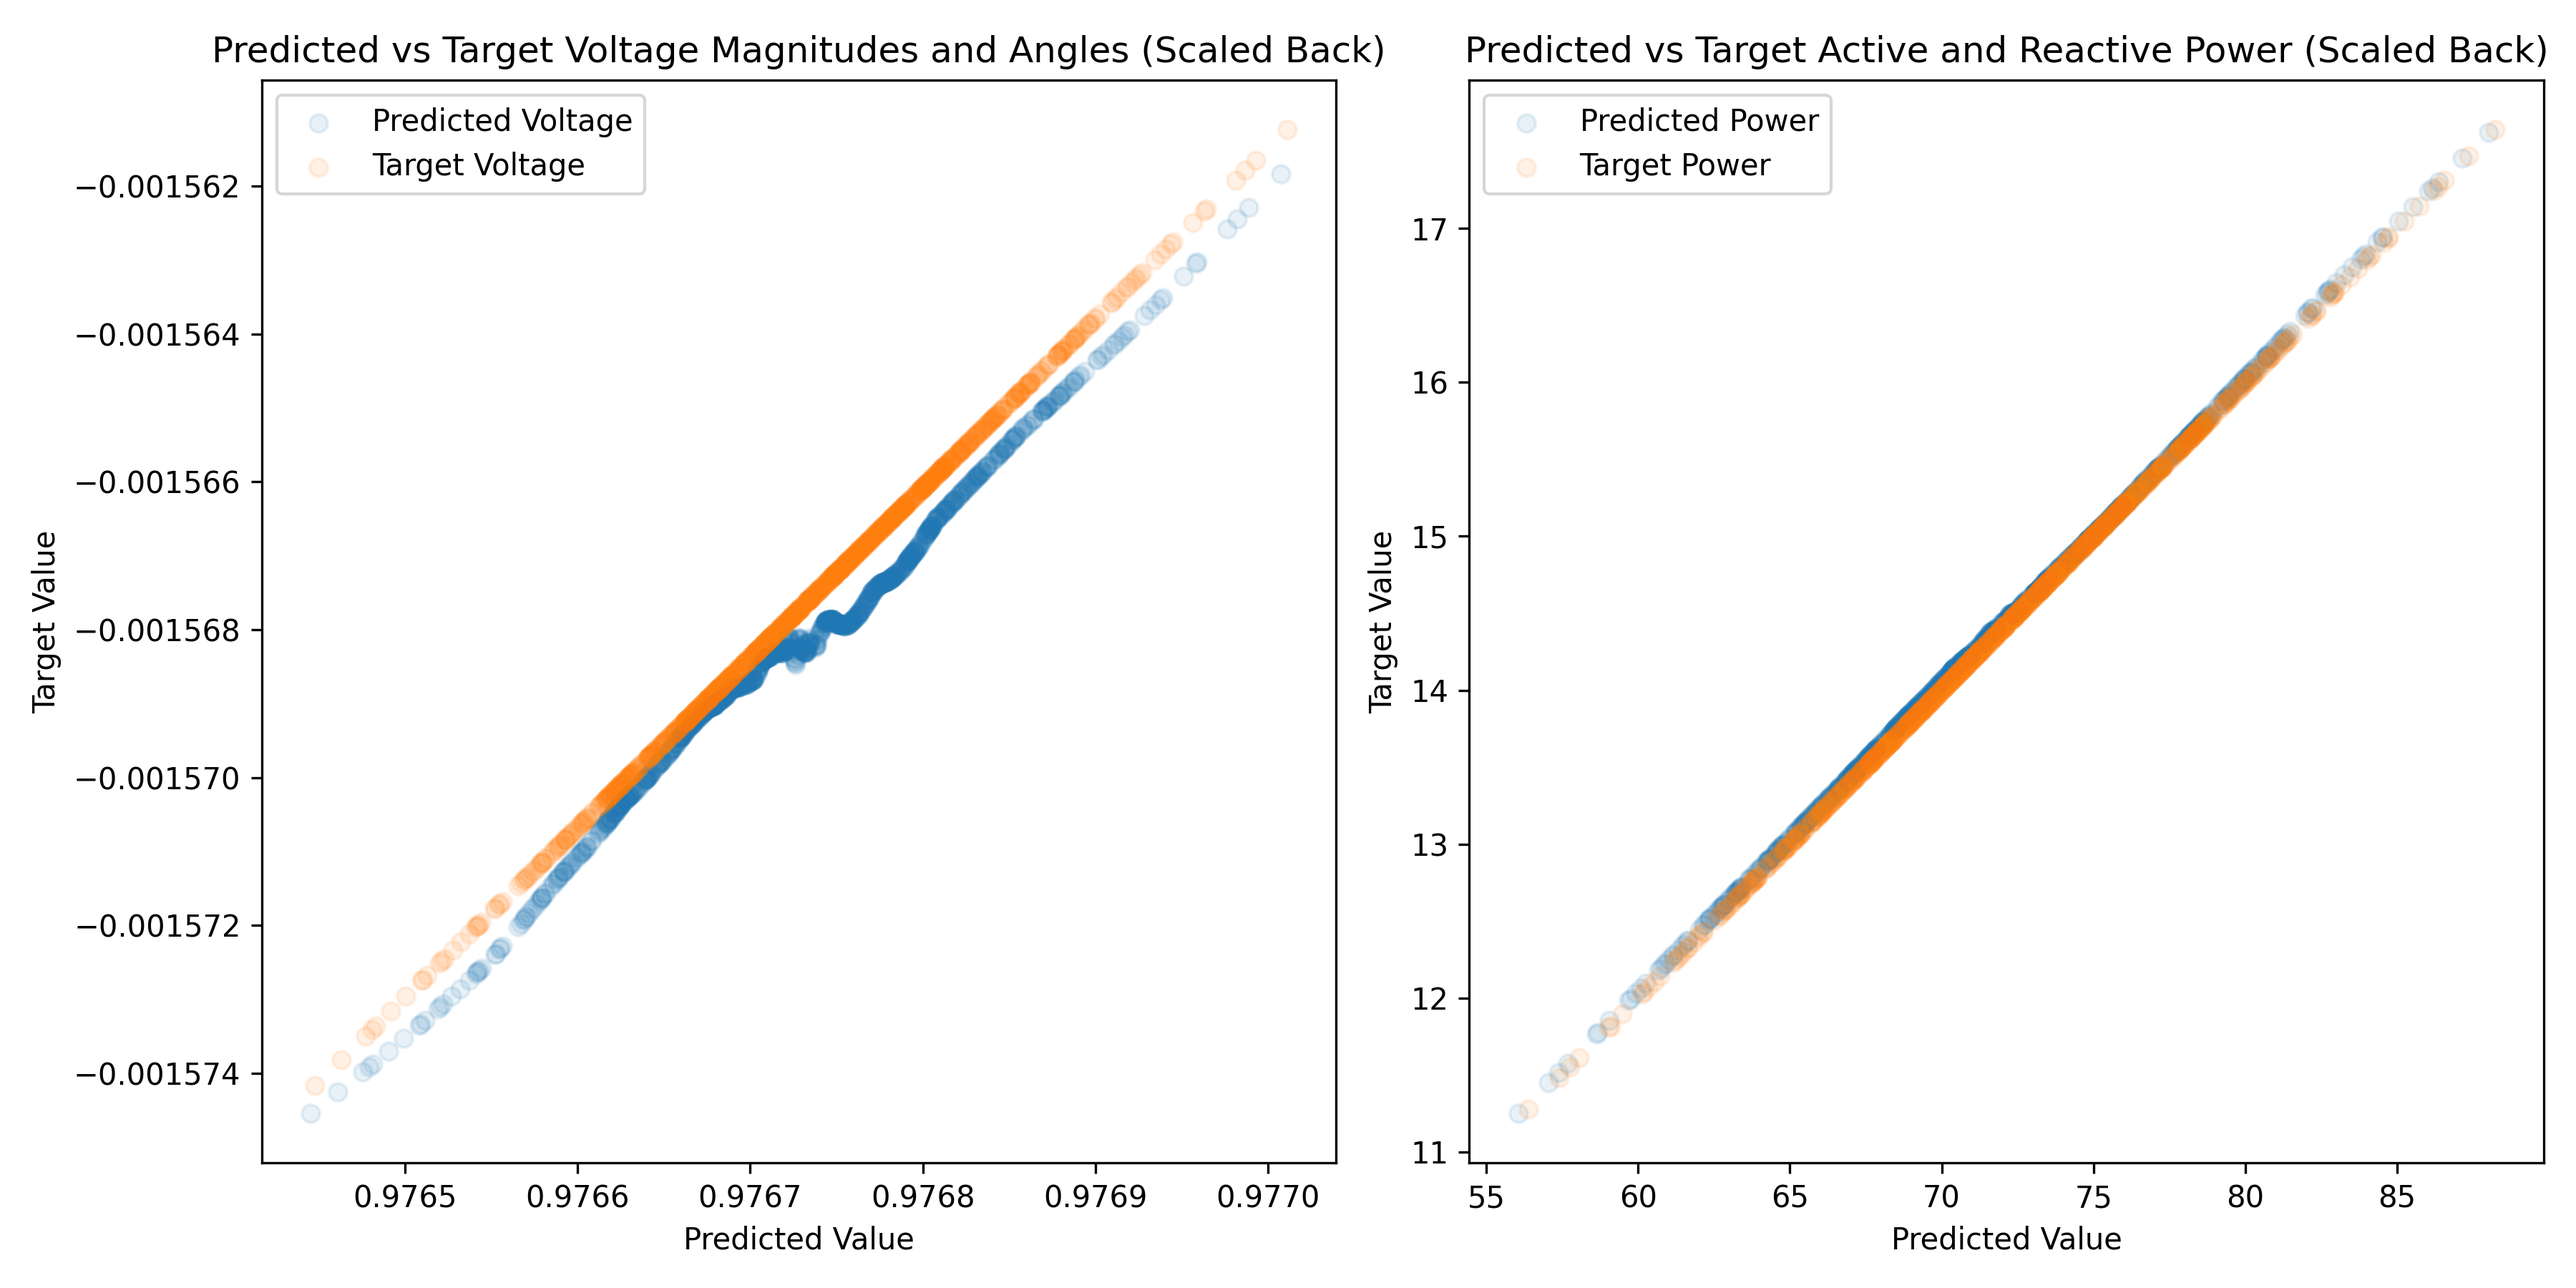
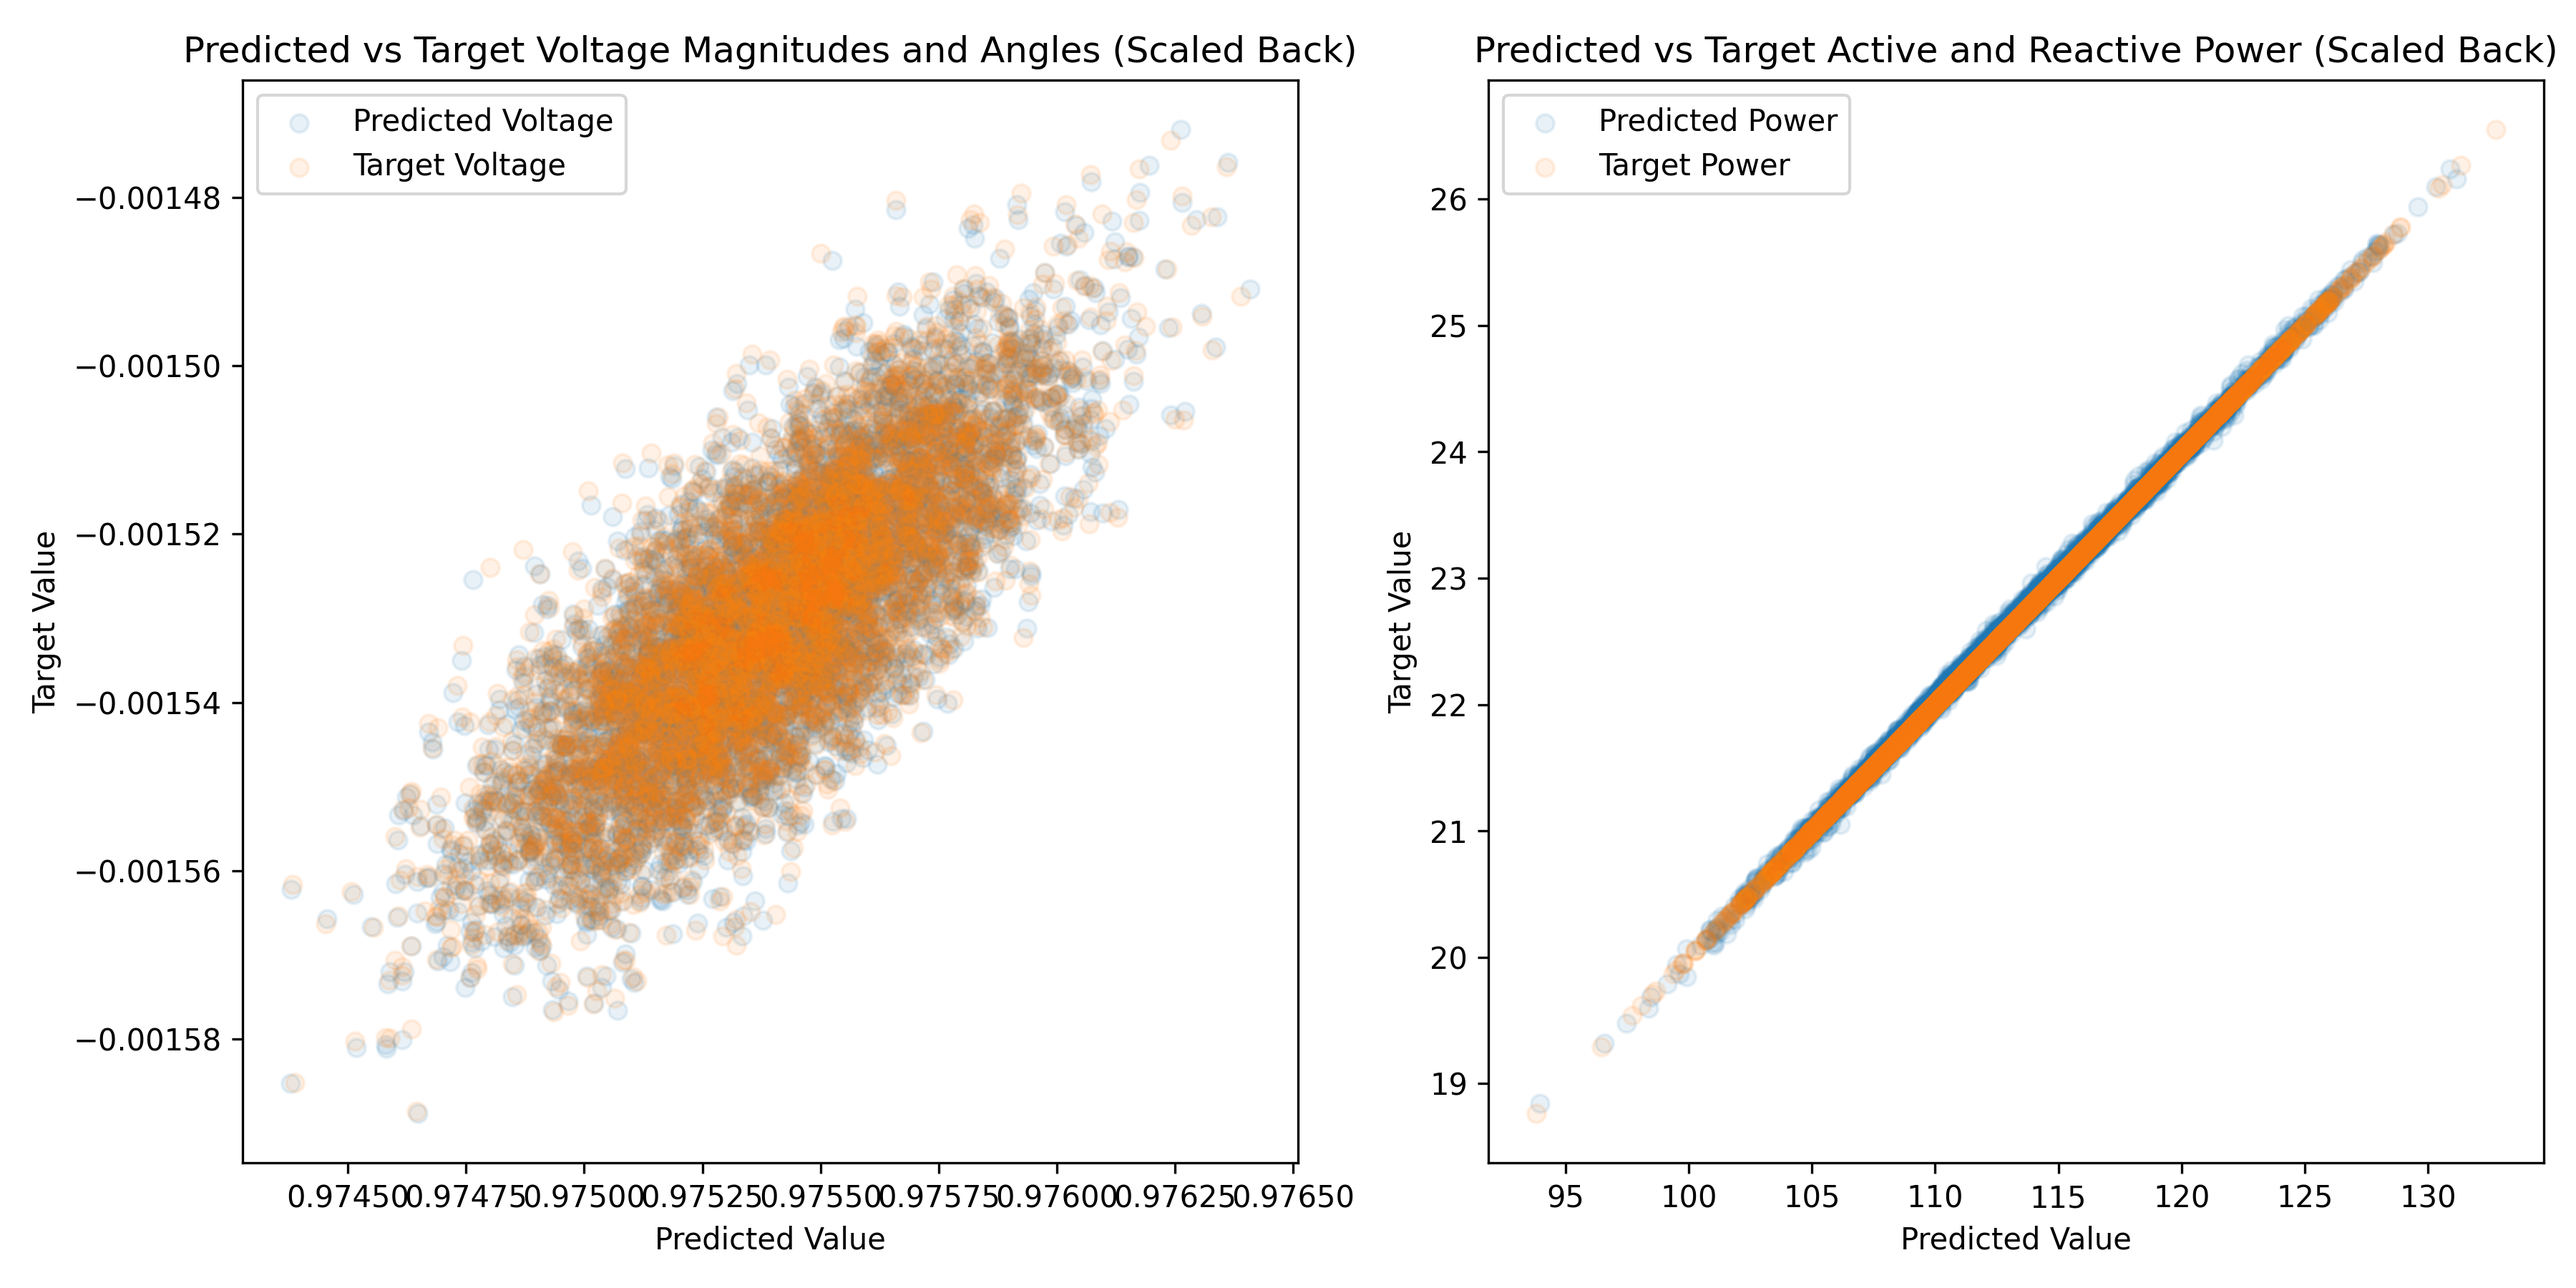
add

diff --git a/src/exame/cnice/34node/disaccuracy.py b/src/exame/cnice/34node/disaccuracy.py
@@ -9,6 +9,7 @@ import numpy as np
 import pickle
 
 import matplotlib.pyplot as plt
+from sklearn.mixture import GaussianMixture
 
 from src.models.cnice.cnicemodel import CNicemModel
 from src.powersystems.node34 import Node34Example
@@ -35,11 +36,16 @@ hiddemen_dim_condition = 128
 output_dim_condition = 1
 n_layers_condition = 2
 
-batch_size = 1000
+_root = 20
+batch_size = _root**2
 device = torch.device("cuda" if torch.cuda.is_available() else "cpu")
 save_path = 'src/training/cnice/savedmodel'
 
-
+# Fix other nodes, vary one node
+p_index = 12 # torch.randint(0, num_nodes-1, (1,)).item()  # Random index for the power input
+v_index = p_index
+n_components = 1
+print(f"Target node index: {p_index}, {v_index}")
 # -----------------------
 # Initialize the random system　model and scalers
 # -----------------------
@@ -77,17 +83,28 @@ scaler_p = scalers['scaler_p']
 scaler_q = scalers['scaler_q']
 
 # -----------------------    
-# Define the data
+# Define the data and distribution
 # -----------------------
-# Fix other nodes, vary one node
-p_index = torch.randint(0, num_nodes-1, (1,)).item()  # Random index for the power input
-v_index = p_index
-_active_power_index = np.random.normal(mean_vector[1+p_index], scale=5, size=(batch_size, ))
+_weights = np.random.randint(1, 10, size=(n_components,))
+_weights = _weights / np.sum(_weights)
+_weights = _weights.round(2)
+_active_power_index = np.random.normal(0,
+                                      scale=0.2, 
+                                      size=(batch_size, )) + mean_vector[1+p_index]
+# for _w in _weights:
+#     _active_power_index = np.concatenate((_active_power_index, 
+#                                          np.random.normal(mean_vector[1+p_index],
+#                                                           scale=5*_w, 
+#                                                           size=(int(batch_size*_w), ))))
+_active_power_index = _active_power_index[:batch_size]
+print(f"p_index: {p_index}, v_index: {v_index}, weights: {_weights}, _active_power_index: {_active_power_index.shape}")
+
+# Replace _active_power_index with sampled_index
 _active_power = np.tile(mean_vector[1:], (batch_size, 1))
 _active_power[:, p_index] = _active_power_index
-
-# _active_power = np.random.normal(mean_vector[1:], scale=5, size=(5000, num_nodes-1))  # Power in kW
 _reactive_power = _active_power * power_factor
+
+# Run the power flow to get the voltages
 _solution = random_sys.run(active_power=_active_power, 
                             reactive_power=_reactive_power)
 _voltage_magnitudes = magnitude_transform(_solution['v'])
@@ -99,7 +116,14 @@ scaled_va = scaler_va.transform(_voltage_angles)
 scaled_active_power = scaler_p.transform(_active_power)
 scaled_reactive_power = scaler_q.transform(_reactive_power)
 
-# Concat the data
+# Fig a gmm to the input data
+gmm = GaussianMixture(n_components=n_components, covariance_type='full', random_state=0)
+_target_samples = np.concatenate((scaled_active_power[:, p_index].reshape(-1, 1),
+                                  scaled_reactive_power[:, p_index].reshape(-1, 1)), axis=1)
+# gmm.fit(_target_samples[:, 0].reshape(-1, 1))
+gmm.fit(_target_samples)
+print(f"GMM means: {gmm.means_}, covariances: {gmm.covariances_}, weights: {gmm.weights_}")
+print(f"target samples, mean and variance: {_target_samples.mean(axis=0)}, {_target_samples.std(axis=0)}")
 concat_vm_va = np.concatenate((scaled_vm, scaled_va), axis=1)
 concat_active_reactive = np.concatenate((scaled_active_power, scaled_reactive_power), axis=1)
 
@@ -125,25 +149,6 @@ pre_v = pre_v.cpu().numpy()
 pre_p = pre_p.cpu().numpy()
 print(f"pre_v: {pre_v.shape}, pre_p: {pre_p.shape}")
 
-# Plot the pre_v and pre_p and real and target
-plt.figure(figsize=(12, 6))
-plt.subplot(1, 2, 1)
-plt.scatter(pre_v[:, 0], pre_v[:, 1], label='Predicted Voltage', alpha=0.1)
-plt.scatter(output_y[:, 0].cpu().numpy(), output_y[:, 1].cpu().numpy(), label='Target Voltage', alpha=0.1)
-plt.title('Predicted vs Target Voltage Magnitudes and Angles')
-plt.xlabel('Predicted Value')
-plt.ylabel('Target Value')
-plt.legend()
-plt.subplot(1, 2, 2)
-plt.scatter(pre_p[:, 0], pre_p[:, 1], label='Predicted Power', alpha=0.1)
-plt.scatter(input_x[:, 0].cpu().numpy(), input_x[:, 1].cpu().numpy(), label='Target Power', alpha=0.1)
-plt.title('Predicted vs Target Active and Reactive Power')
-plt.xlabel('Predicted Value')
-plt.ylabel('Target Value')
-plt.legend()
-plt.tight_layout()
-plt.savefig(f'figures/cnice_{num_nodes}node_accuracy1.png', dpi=300)
-
 # Reconstruct the full voltage and power arrays
 pre_v_total = target_voltage.clone().cpu().numpy()
 pre_p_total = input_power.clone().cpu().numpy()
@@ -164,21 +169,152 @@ pre_va_scaled = pre_v_total[:, num_nodes-1:]
 pre_p_scaled = pre_p_total[:, :num_nodes-1]
 pre_q_scaled = pre_p_total[:, num_nodes-1:]
 
-# Plot the pre_v_scaled and pre_p_scaled and real and target
-plt.figure(figsize=(12, 6))
-plt.subplot(1, 2, 1)
-plt.scatter(pre_vm_scaled[:, p_index], pre_va_scaled[:, p_index], label='Predicted Voltage', alpha=0.1)
-plt.scatter(_voltage_magnitudes[:, p_index], _voltage_angles[:, p_index], label='Target Voltage', alpha=0.1)        
-plt.title('Predicted vs Target Voltage Magnitudes and Angles (Scaled Back)')
-plt.xlabel('Predicted Value')
-plt.ylabel('Target Value')
-plt.legend()
-plt.subplot(1, 2, 2)
-plt.scatter(pre_p_scaled[:, p_index], pre_q_scaled[:, p_index], label='Predicted Power', alpha=0.1)
-plt.scatter(_active_power[:, p_index], _reactive_power[:, p_index], label='Target Power', alpha=0.1)        
-plt.title('Predicted vs Target Active and Reactive Power (Scaled Back)') 
-plt.xlabel('Predicted Value')
-plt.ylabel('Target Value')
-plt.legend()
+# ----------------------- 
+# Check distribution 
+# ----------------------- 
+# f(x) = y
+# p(x) = p(y) * |det(d f^-1(y)/ dy)
+# # Plot the empirical pdf and cdf of x
+# y = ((scaled_vm[:, v_index].reshape(-1, 1),
+#                     scaled_va[:, v_index].reshape(-1, 1)), axis=1)  # Original output data
+y = output_y.cpu().numpy()
+print(f"y: {y.shape}")
+
+# Check the min and max if x and y
+max_y0, min_y0 = y[:,0].max().item(), y[:,0].min().item()
+max_y1, min_y1 = y[:,1].max().item(), y[:,1].min().item()
+print(f"y0: min {min_y0}, max {max_y0}, y1: min {min_y1}, max {max_y1}")
+n_bins = int(np.sqrt(batch_size))  # Number of bins for the histogram
+y0_line = np.linspace(min_y0, max_y0, n_bins)
+y1_line = np.linspace(min_y1, max_y1, n_bins)
+gap_area = (max_y0 - min_y0) * (max_y1 - min_y1) / (n_bins * n_bins)
+
+grid_yy0, grid_yy1 = np.meshgrid(y0_line, y1_line)
+grid_y0, grid_y1 = np.meshgrid(y0_line, y1_line, sparse=True)
+density = np.zeros((n_bins, n_bins))
+cum_density = np.zeros((n_bins, n_bins))
+print("Grid shape:", grid_y0.shape, grid_y1.shape)
+# print(grid_y0)
+# print(grid_y1)
+# compute the density of each bin  
+for i in range(n_bins):
+    for j in range(n_bins):
+        # pdf filter
+        filter = (
+        (y[:, 1] >= grid_y1[j, 0]) &
+        (y[:, 1] <  grid_y1[j, 0] + (max_y1 - min_y1) / n_bins) &  # y in y-bin j
+        (y[:, 0] >= grid_y0[0, i]) &
+        (y[:, 0] <  grid_y0[0, i] + (max_y0 - min_y0) / n_bins)    # x in x-bin i
+        )
+
+        density[j, i] = np.sum(filter) / (batch_size*gap_area)
+        
+        # cdf filter
+        cdf_filter = (
+            (y[:, 1] <= grid_y1[j, 0]) &
+            (y[:, 0] <= grid_y0[0, i])
+        )
+        cum_density[j, i] = np.sum(cdf_filter) / batch_size
+        
+# Plot the pdf and cdf in a 3d plot
+fig = plt.figure(figsize=(14, 6))
+
+# First subplot: PDF
+ax1 = fig.add_subplot(1, 2, 1, projection='3d')
+ax1.plot_surface(grid_yy0, grid_yy1, density, cmap='viridis', edgecolor='none')
+ax1.set_title('PDF of Output')
+ax1.set_xlabel('x')
+ax1.set_ylabel('y')
+ax1.set_zlabel('Density')
+
+# Second subplot: CDF
+ax2 = fig.add_subplot(1, 2, 2, projection='3d')
+ax2.plot_surface(grid_yy0, grid_yy1,  cum_density, cmap='viridis', edgecolor='none')
+ax2.set_title('CDF of Output')
+ax2.set_xlabel('x')
+ax2.set_ylabel('y')
+ax2.set_zlabel('Cumulative Density')
+
 plt.tight_layout()
-plt.savefig(f'figures/cnice_{num_nodes}node_accuracy2.png', dpi=300)
+plt.savefig(f'figures/target_node_{v_index}_{num_nodes}_pdf_cdf.png')
+plt.close()
+
+# ----------------------- 
+# Compute the density of the output using the model
+# -----------------------
+density_y = torch.zeros((n_bins, n_bins))
+_input_y = torch.zeros((n_bins* n_bins, 2))
+_batch_index = 0
+for i in range(n_bins):
+    for j in range(n_bins):
+        _y0 = grid_y0[0, i]
+        _y1 = grid_y1[j, 0]
+        _input_y[_batch_index] = torch.tensor([_y0, _y1])
+        _batch_index += 1
+print("Input y shape:", _input_y.shape)
+
+# Condition input, the same for all does not matter the p_index as it will be replaced in the null token, the scenario is fixed
+nice_model.eval()
+x_inverse, _ja_inverse = nice_model.inverse(_input_y, input_c, index_p=p_index, index_v=v_index)
+
+# p_y_compute = x_dix.log_prob(x_inverse).exp() * _ja_inverse
+# p_y_compute = gmm.score_samples(x_inverse[:,0].detach().numpy().reshape(-1, 1))
+# max_x0, min_x0 = input_x[:,0].max().item(), input_x[:,0].min().item()
+# max_x1, min_x1 = input_x[:,1].max().item(), input_x[:,1].min().item()
+# print(f"x0: min {min_x0}, max {max_x0}, x1: min {min_x1}, max {max_x1}")
+# max_xinversse0, min_xinverse0 = x_inverse[:,0].max().item(), x_inverse[:,0].min().item()
+# max_xinversse1, min_xinverse1 = x_inverse[:,1].max().item(), x_inverse[:,1].min().item()
+# print(f"xinverse0: min {min_xinverse0}, max {max_xinversse0}, xinverse1: min {min_xinverse1}, max {max_xinversse1}")
+# # Scale the input
+# x_inverse[:,1] = (x_inverse[:,1] - min_xinverse1) * (max_x0 - min_x0) / (max_xinversse1 - min_xinverse1) + min_x1
+# x_inverse[:,0] = (x_inverse[:,0] - min_xinverse0) * (max_x0 - min_x0) / (max_xinversse0 - min_xinverse0) + min_x0
+
+p_y_compute = gmm.score_samples(x_inverse.detach().numpy())
+p_y_compute = torch.tensor(p_y_compute, dtype=torch.float32)
+p_y_compute = p_y_compute.exp()* _ja_inverse
+print(_ja_inverse.mean().item(), p_y_compute.mean().item())
+_batch_index = 0
+for i in range(n_bins):
+    for j in range(n_bins):
+        density_y[i, j] = p_y_compute[_batch_index].item()
+        _batch_index += 1
+
+# plot the density of the output
+fig, ax = plt.subplots(subplot_kw={"projection": "3d"})
+ax.plot_surface(grid_yy0, grid_yy1, density_y, cmap='viridis', edgecolor='none')
+plt.title('Density of Output')
+plt.xlabel('x')
+plt.ylabel('y')
+plt.savefig(f'figures/target_node_{v_index}_{num_nodes}_output_density.png')
+plt.close()
+
+# -----------------------
+# Error analysis
+# -----------------------
+# Plot distribution of inverse_x and input_x
+input_x_np = input_x.cpu().numpy()
+x_inverse_np = x_inverse.detach().cpu().numpy()
+# fig, ax = plt.subplots(subplot_kw={"projection"})
+# 2D scatter plot
+fig = plt.figure(figsize=(8, 6))
+ax = fig.add_subplot(111)
+ax.scatter(input_x_np[:,0], input_x_np[:,1], c='b', label='Input x', alpha=0.5)
+ax.scatter(x_inverse_np[:,0], x_inverse_np[:,1], c='r', label='Inverse x', alpha=0.5)
+ax.set_title('Input x and Inverse x Distribution')
+ax.set_xlabel('x0')
+ax.set_ylabel('x1')
+ax.legend()
+plt.savefig(f'figures/target_node_x_{v_index}_{num_nodes}_input_inverse_distribution_2d.png')
+plt.close()
+
+# Plot y and _intput_y
+fig = plt.figure(figsize=(8, 6))
+ax = fig.add_subplot(111)
+ax.scatter(y[:,0], y[:,1], c='b', label='Output y', alpha=0.5)
+ax.scatter(_input_y[:,0], _input_y[:,1], c='r', label='Input y', alpha=0.5)
+ax.set_title('Output y and Input y Distribution')
+ax.set_xlabel('y0')
+ax.set_ylabel('y1')
+ax.legend()
+plt.savefig(f'figures/target_node_y_{v_index}_{num_nodes}_output_input_distribution_2d.png')
+plt.close()

diff --git a/src/exame/cnice/34node/pfaccuracy.py b/src/exame/cnice/34node/pfaccuracy.py
@@ -31,7 +31,8 @@ hiddemen_dim_condition = 128
 output_dim_condition = 1
 n_layers_condition = 2
 
-batch_size = 1000
+_root = 20
+batch_size = _root**2
 epochs = 100000
 device = torch.device("cuda" if torch.cuda.is_available() else "cpu")
 save_path = 'src/training/cnice/savedmodel'
@@ -148,3 +149,39 @@ pre_v_total[:, :num_nodes-1] = scaler_vm.inverse_transform(pre_v_total[:, :num_n
 pre_v_total[:, num_nodes-1:] = scaler_va.inverse_transform(pre_v_total[:, num_nodes-1:])
 pre_p_total[:, :num_nodes-1] = scaler_p.inverse_transform(pre_p_total[:, :num_nodes-1])
 pre_p_total[:, num_nodes-1:] = scaler_q.inverse_transform(pre_p_total[:, num_nodes-1:])
+
+# pre_v and pre_p scaled back
+pre_vm_scaled = pre_v_total[:, :num_nodes-1]
+pre_va_scaled = pre_v_total[:, num_nodes-1:]
+pre_p_scaled = pre_p_total[:, :num_nodes-1]
+pre_q_scaled = pre_p_total[:, num_nodes-1:]
+
+# Plot the pre_v_scaled and pre_p_scaled and real and target
+plt.figure(figsize=(12, 6))
+plt.subplot(1, 2, 1)
+plt.scatter(pre_vm_scaled[:, p_index], pre_va_scaled[:, p_index], label='Predicted Voltage', alpha=0.1)
+plt.scatter(_voltage_magnitudes[:, p_index], _voltage_angles[:, p_index], label='Target Voltage', alpha=0.1)        
+plt.title('Predicted vs Target Voltage Magnitudes and Angles (Scaled Back)')
+plt.xlabel('Predicted Value')
+plt.ylabel('Target Value')
+plt.legend()
+plt.subplot(1, 2, 2)
+# print(p_index)
+# p_index = 2
+# print(pre_p_scaled[:3, p_index])
+# print("--------------------")
+# print(_active_power[:3, p_index])
+# print("--------------------")
+# print(pre_q_scaled[:3, p_index])
+# print("--------------------")
+# print(_reactive_power[:3, p_index])
+# print("--------------------")
+plt.scatter(pre_p_scaled[:, p_index], pre_q_scaled[:, p_index], label='Predicted Power', alpha=0.1)
+plt.scatter(_active_power[:, p_index], _reactive_power[:, p_index], label='Target Power', alpha=0.1)        
+plt.title('Predicted vs Target Active and Reactive Power (Scaled Back)') 
+plt.xlabel('Predicted Value')
+plt.ylabel('Target Value')
+plt.legend()
+plt.tight_layout()
+plt.savefig(f'figures/cnice_{num_nodes}node_accuracy2.png', dpi=300)
+
